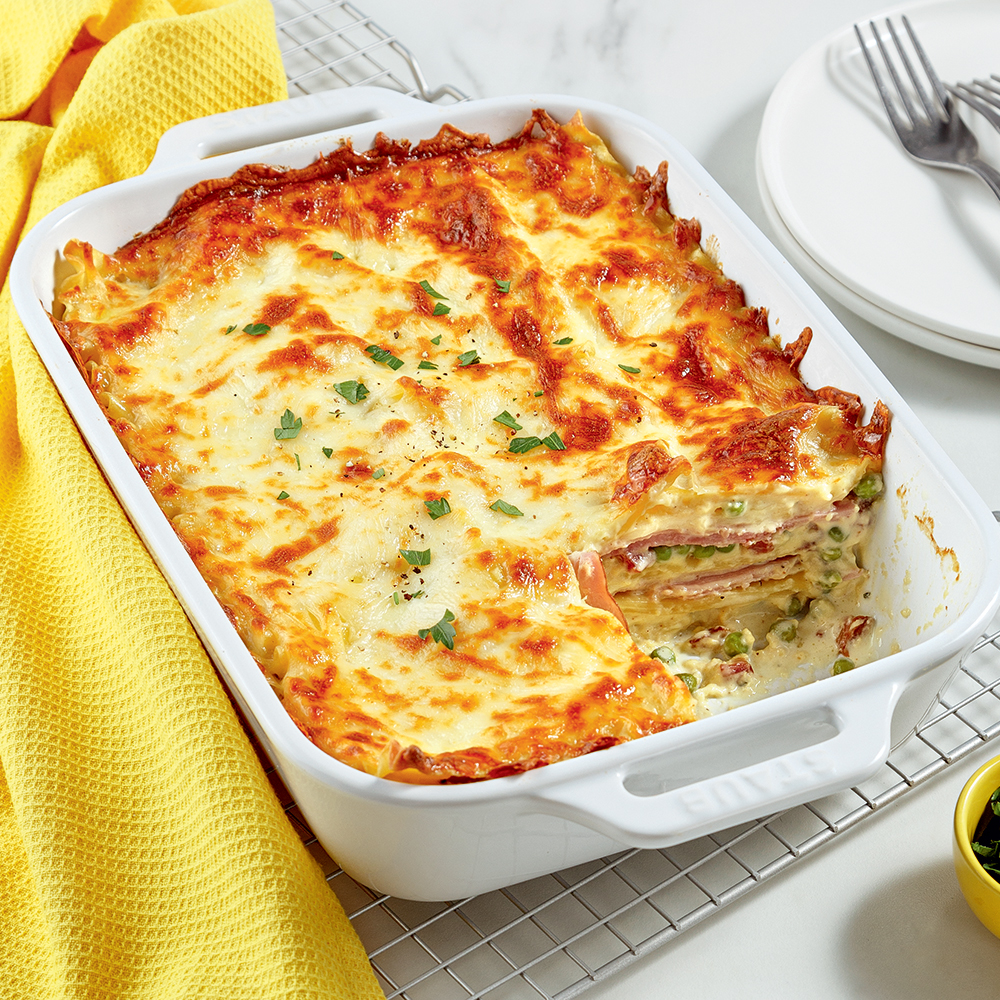
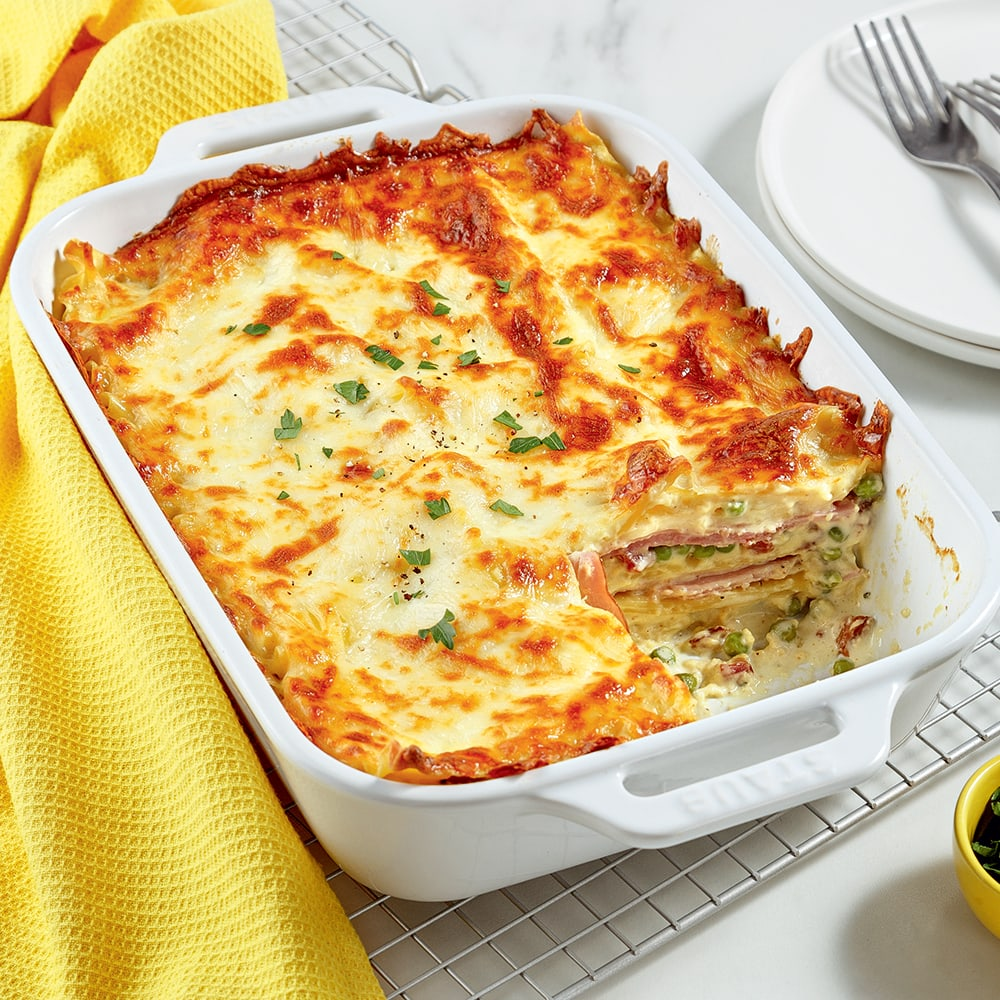
La vraie paire : même lasagne des deux côtés du rideau
LA SECONDE LIVRAISON RÈGLE CE QUE LA PREMIÈRE NE POUVAIT PAS. L'ancienne paire
mettait face à face une lasagne à la louche et une lasagne montée en couches —
deux belles photos, deux recettes. Le rideau marchait mécaniquement et mentait
sur le fond : qui réservait d'après le côté droit recevait le côté gauche. Les
deux fichiers sont désormais la même lasagne au jambon, et la part montrée
montre ses couches de profil. Le rideau dit enfin ce qu'il promet.

DEUX CORRECTIONS QUE LA LIVRAISON A RENDUES NÉCESSAIRES.

· L'EXTENSION. Le fichier livré est `.jpeg`, et l'ancien `.jpg` a été supprimé
  dans le même envoi — le code pointait donc sur un fichier absent. Il suit
  maintenant le nom réel. Un balayage des deux chemins confirme qu'aucune
  référence n'est morte.

· LE POIDS. La photo « au plat » pesait 1,1 Mo, quatorze fois les autres
  assiettes de ce dossier, sur le PREMIER écran d'un parcours qu'on ouvre au
  téléphone dans la rue. Réencodée en qualité 86 : 233 Ko, mêmes 1000 × 1000,
  aucune différence visible à l'œil sur les deux images comparées côte à côte.
  La règle des 300 Ko est écrite dans le LISEZ-MOI avec ce chiffre.

ET LA RÈGLE DE CADRAGE ÉTAIT ÉCRITE TROP STRICTE. J'avais exigé même distance
et même hauteur d'œil ; à l'usage c'est faux. Deux photos recadrées dans le
même rectangle tiennent très bien côte à côte même prises de points de vue
différents — une plongée sur le gratin et une vue à hauteur d'œil sur
[…]

diff --git a/src/lib/direct/avant-gout.ts b/src/lib/direct/avant-gout.ts
@@ -379,7 +379,7 @@ export const GOUT_PESTO: Gout = {
          à regarder un plat entier, et le dernier geste avant de réserver est
          de découvrir la part qui arrivera sur la table. Voir `go-rideau` dans
          `components/direct/gout-contenu.tsx`. */
-      photoApres: "/direct/plat-lasagnes-servi.jpg",
+      photoApres: "/direct/plat-lasagnes-servi.jpeg",
     },
   ],
 };

diff --git a/public/direct/LISEZ-MOI.md b/public/direct/LISEZ-MOI.md
@@ -808,11 +808,22 @@ n'a pas le droit de faire.
 
 ## Ce qu'une seconde photo doit être
 
-Le rideau ne marche que si les deux images **se superposent**. Sinon ce n'est
-pas un rideau, c'est un diaporama.
+**C'EST LE MÊME PLAT QUI COMPTE, PAS LE MÊME ANGLE.** Cette règle a été écrite
+trop stricte la première fois, et la première paire livrée l'a corrigée : deux
+photos recadrées dans le même rectangle tiennent très bien côte à côte même
+prises de points de vue différents — une plongée sur le gratin et une vue à
+hauteur d'œil sur l'assiette se lisent sans effort comme deux états de la même
+chose. Ce qui casse le rideau n'est pas l'angle, c'est le CONTENU.
 
-- **Même cadrage, même distance, même hauteur d'œil** que la première. C'est la
-  contrainte principale, et la seule qui se rattrape difficilement après coup.
+- **Le même plat, la même recette.** Non négociable, et c'est la seule règle
+  vraiment bloquante. La première paire livrée montrait une lasagne à la louche
+  d'un côté et une lasagne montée en couches de l'autre : deux recettes, donc
+  quelqu'un qui réserve après avoir vu l'une reçoit l'autre. La seconde paire —
+  la même lasagne au jambon des deux côtés — a résolu le problème d'un coup.
+- **Ni fond de studio, ni noir seamless** du côté « servi ». L'étiquette affirme
+  que c'est l'assiette qui arrive sur la table ; une photo de catalogue dit
+  exactement le contraire, et la bande de fond qui apparaît quand on tire le
+  rideau à fond se lit comme un défaut d'affichage.
 - **Même lumière, même jour.** Un « avant » de mardi et un « servi » de la
   semaine dernière est un montage.
 - **L'assiette telle qu'elle sort**, pas le dressage du site. Si la photo est
@@ -820,6 +831,12 @@ pas un rideau, c'est un diaporama.
   pire que pas de photo du tout.
 - **Format portrait ou carré, 1000 px de large au minimum.** Les cartes
   s'affichent en plein cadre vertical.
+- **Moins de 300 Ko, et on recompresse sans le demander.** La photo « au plat »
+  livrée avec la première paire pesait 1,1 Mo — quatorze fois les autres
+  assiettes de ce dossier — sur le PREMIER écran d'un parcours qu'on ouvre au
+  téléphone, dans la rue. Réencodée en qualité 86, elle est tombée à 233 Ko en
+  gardant ses 1000 × 1000 et sans différence visible à l'œil. Les pixels d'un
+  commerçant valent mieux qu'une image de banque ; son forfait mobile aussi.
 - **Ni filigrane, ni enseigne lisible, ni visage de face** — même règle que
   toutes les images de ce dossier.
 
@@ -827,7 +844,7 @@ pas un rideau, c'est un diaporama.
 
 | Fichier attendu | Commerce | Le plat | La première photo | Ce que montre la seconde |
 |---|---|---|---|---|
-| `plat-lasagnes-servi.jpg` | Le Bocal de Margot | Lasagnes maison, 11 € | `plat-lasagnes.jpg` — le plat entier | **Une part découpée sur l'assiette, les couches visibles de profil.** C'est le meilleur cas du lot : le contraste plat entier → part est spectaculaire, et c'est littéralement « je vous montre l'intérieur ». |
+| ✅ `plat-lasagnes-servi.jpeg` | Le Bocal de Margot | Lasagnes maison, 11 € | `plat-lasagnes.jpg` — le gratin au plat | **FAITE**, et c'était bien le meilleur cas du lot : la part montée sur l'assiette montre ses couches de jambon de profil, et le rideau dit littéralement « je vous montre l'intérieur ». **Noter l'extension : `.jpeg`, pas `.jpg`** — c'est celle du fichier livré, et le code la suit. |
 | `plat-garbure-servi.jpg` | Chez Bergine | Garbure landaise, magret grillé, 19 € | `plat-garbure.jpg` — la marmite | **L'assiette creuse servie** : le bouillon versé, le chou et le confit dedans, le magret posé dessus. |
 | `plat-axoa-servi.jpg` | L'Ardoise Landaise | Axoa de veau, 16 € | `plat-axoa.jpg` — la cocotte | **La portion dans l'assiette**, avec les pommes de terre à côté. |
 | `plat-basquaise-servi.jpg` | La Grande Tablée | Le menu du soir, 17 € | `plat-basquaise.jpg` — la poêle | **L'assiette de poulet basquaise avec son riz.** On ne photographie que le plat, pas les trois services : le menu entier ne se superpose à rien. |
@@ -846,6 +863,20 @@ exactement ce qu'on ne voit jamais avant d'acheter.
 
 ## Si une seule doit exister
 
-`plat-lasagnes-servi.jpg`. Le plat entier et la part découpée, c'est le rideau
-qui explique le principe en une seconde, sans texte. Les autres se comprennent
-parce qu'on a compris celui-là.
+C'était `plat-lasagnes-servi`, et elle existe. Le gratin entier et la part
+montée : c'est le rideau qui explique le principe en une seconde, sans texte.
+Les six autres se comprennent parce qu'on a compris celui-là — et la paire des
+lasagnes sert maintenant de référence pour les juger.
+
+## Ce que la première livraison a appris
+
+**Deux paires ont été nécessaires, et l'écart entre les deux est instructif.**
+La première mettait face à face une lasagne à la louche et une lasagne montée
+en couches — deux belles photos, deux recettes différentes. Le rideau
+fonctionnait mécaniquement et mentait sur le fond : quelqu'un qui réserve
+d'après le côté droit reçoit le côté gauche.
+
+**Ce n'était pas une question de qualité photo, mais de vérité.** C'est la
+raison pour laquelle la règle bloquante de cette section n'est ni le cadrage,
+ni la lumière, ni la définition : c'est que ce soit **le même plat**. Tout le
+reste se rattrape au recadrage.
